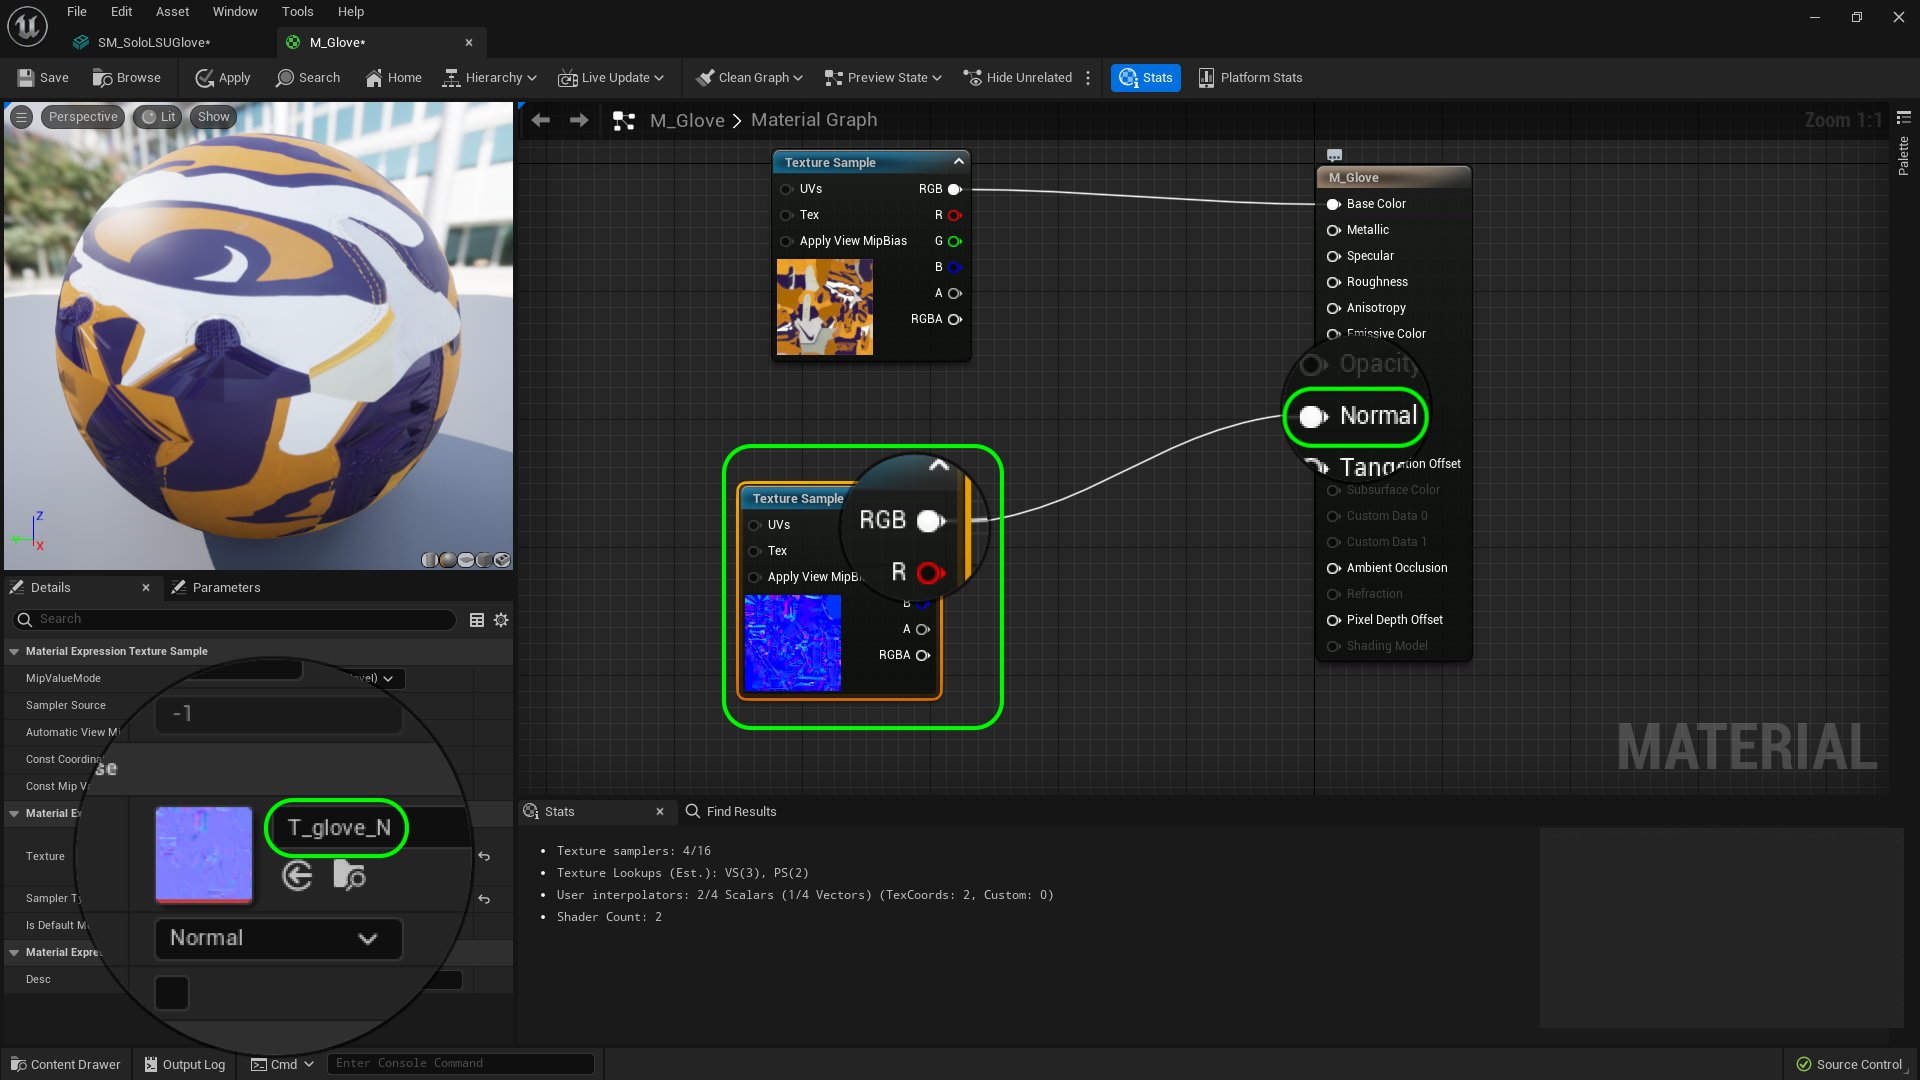
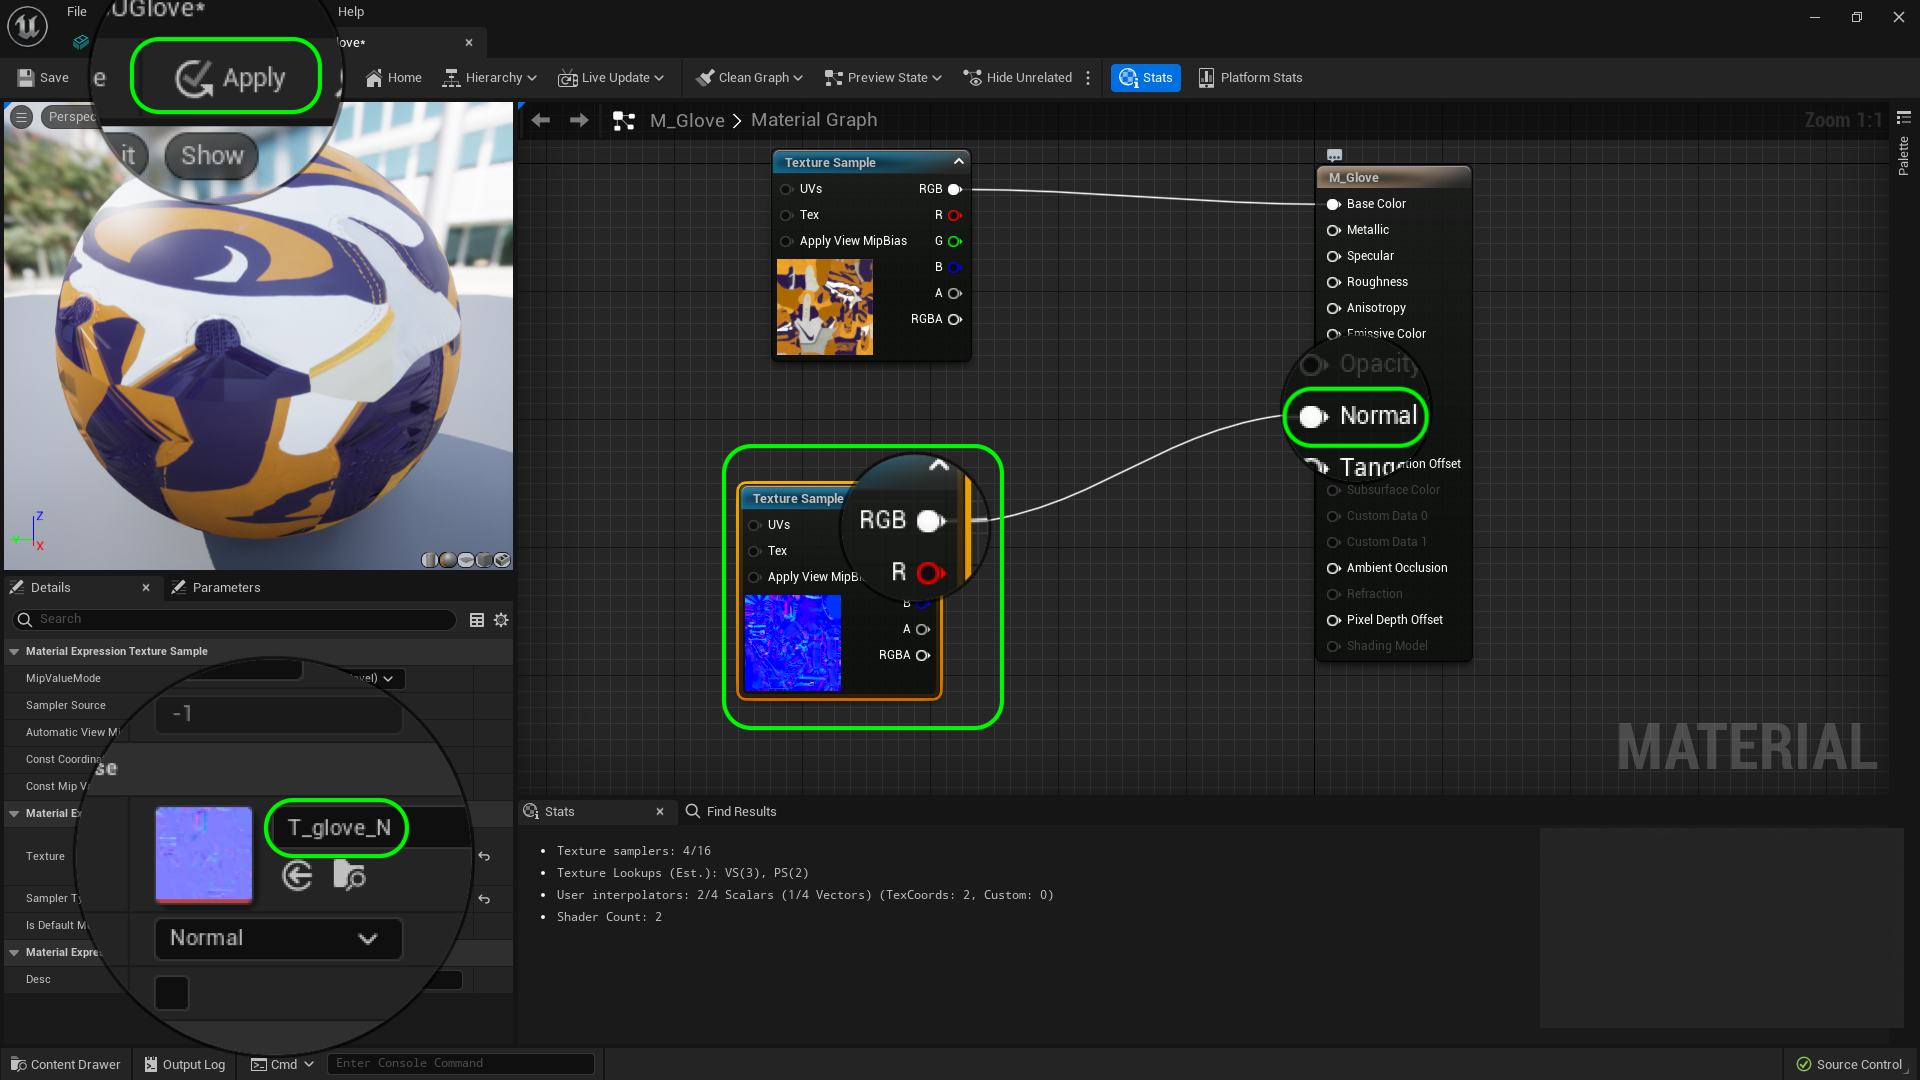
updating sm to ue5

Changed region(s): [[0.0312, 0.0, 0.1875, 0.2139]]

diff --git a/importing-mesh/README.md b/importing-mesh/README.md
@@ -88,7 +88,9 @@ Go back to the material and add another **Texture Sample** node (left click on g
 
 ##### `Step 10.`\|`ITSM`| :large_blue_diamond:
 
-![alt_text](images/.png)
+Go back to the model and zoom in.  The normal map makes a huge difference and you can see the texture of the material and the holes in the glove.  So much detail that was not modeled with triangles shows up. 
+
+![view normal map in editor](images/normalMap.png)
 
 ![](../images/line2.png)
 
